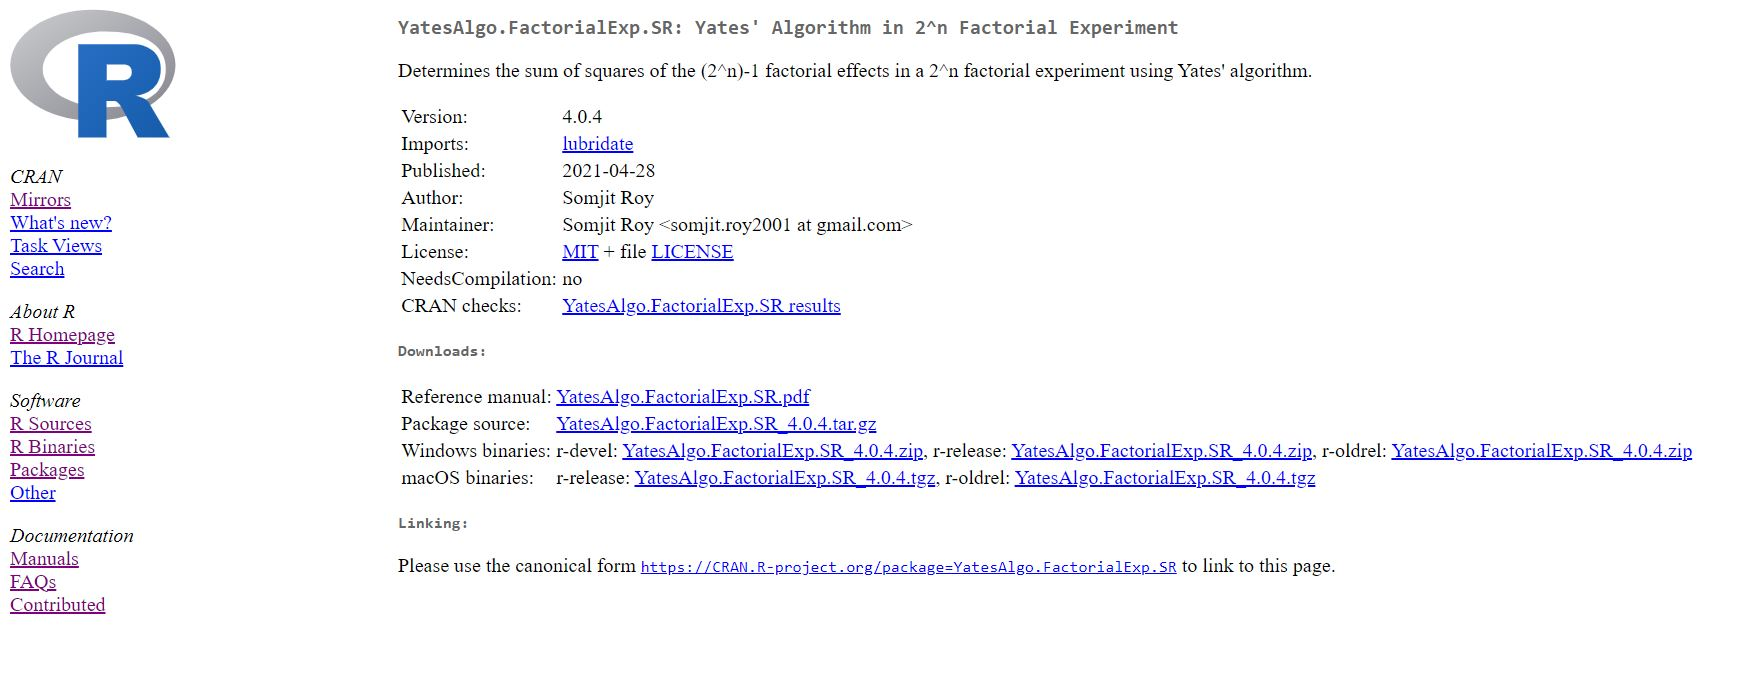
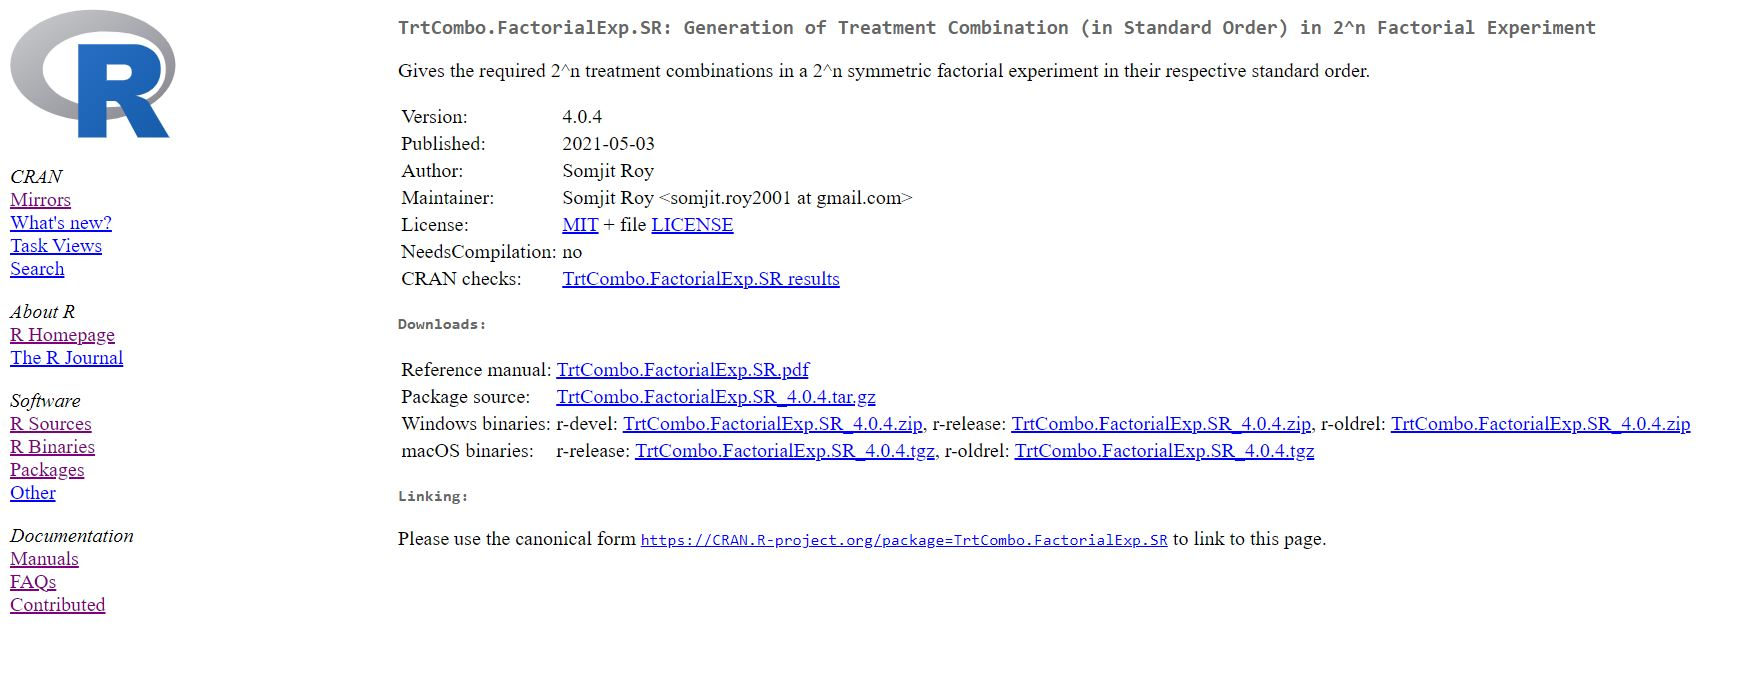
ic

diff --git a/content/publication/TrtCombo/index.md b/content/publication/TrtCombo/index.md
@@ -1,5 +1,5 @@
 ---
-abstract: To study the effect and influence of **two or more** factors on a **response/study** variable, generally experiments are used, which are termed as `Factorial Experiments`. The term **Factorial Experiments** is coined by **R.A Fisher**. Considering a symmetric `2^n` Factorial Experiment, we determine the sum of squares of the required `Factorial Effects` in the concerned experiment, through the implementation of `Yates' Algorithm`, developed by **Frank Yates**.
+abstract: The package development aims in generating the required `2^n` treatment combinations in a `2^n` Factorial Experiment, where each factor is at **two** levels each. The treatment combinations are generated in an order known as the  **standard order of treatment combinations**.
 authors:
 - admin
 date: "2021-04-28T00:00:00Z"
@@ -11,17 +11,17 @@ image:
   preview_only: false
 links:
 - name: CRAN Link
-  url: https://cran.r-project.org/package=YatesAlgo.FactorialExp.SR
+  url: https://cran.r-project.org/package=TrtCombo.FactorialExp.SR
 publication: In *Comprehensive R-Archive Network*
 publication_short: In *CRAN*
 #publication_types:
 #- "0"
-publishDate: "2021-04-28T00:00:00Z"
+publishDate: "2021-05-03T00:00:00Z"
 #slides: example
-summary: Implementation of Yates' Algorithm to determine the Sum of Squares of the `(2^n) - 1` Factorial Effects in a `2^n` symmetric Factorial Experiment. 
+summary: Gives the required `2^n` **treatment combinations** in a `2^n` symmetric **factorial** experiment in their respective **standard order**.
 tags:
 - Publications
-title: YatesAlgo.FactorialExp.SR - Yates' Algorithm in 2^n Factorial Experiment
+title: TrtCombo.FactorialExp.SR - Generation of Treatment Combination (in Standard Order) in 2^n Factorial Experiment
 #url_code: '#'
 #url_dataset: '#'
 #url_pdf: http://eprints.soton.ac.uk/352095/1/Cushen-IMV2013.pdf
